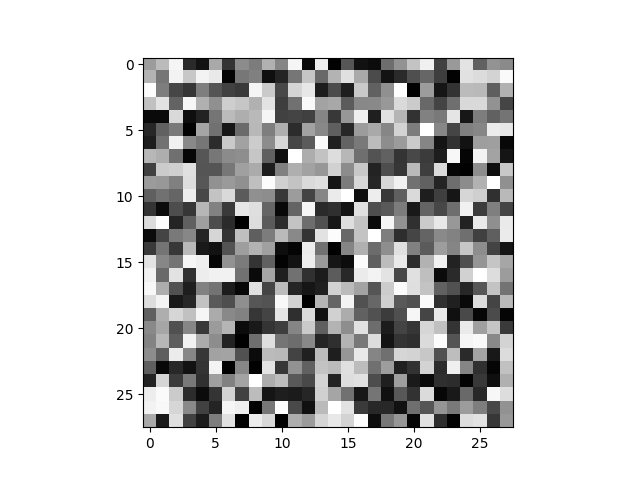
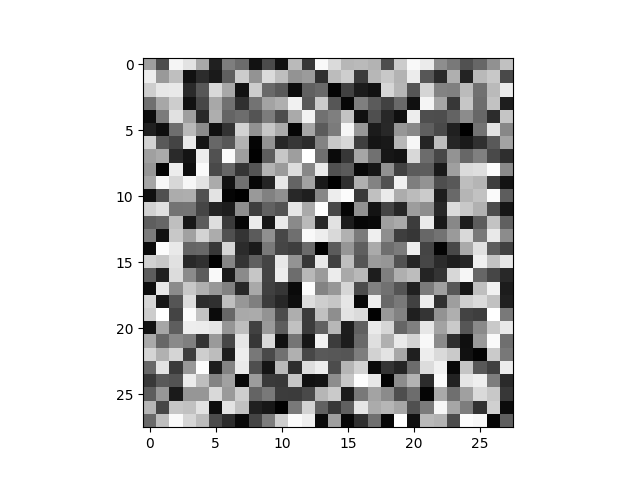
done

diff --git a/train.py b/train.py
@@ -33,8 +33,7 @@ def train(mode="normal"):
     model = MyConvNet()
     if mode!="normal":
         filters = model.net[0].weight.data
-        r = torch.rand(28, 28)
-        filters[0, 0] = r
+        r = filters[0, 0]
         filters[1, 0] = r
         if mode == "3same":
             filters[2, 0] = r
